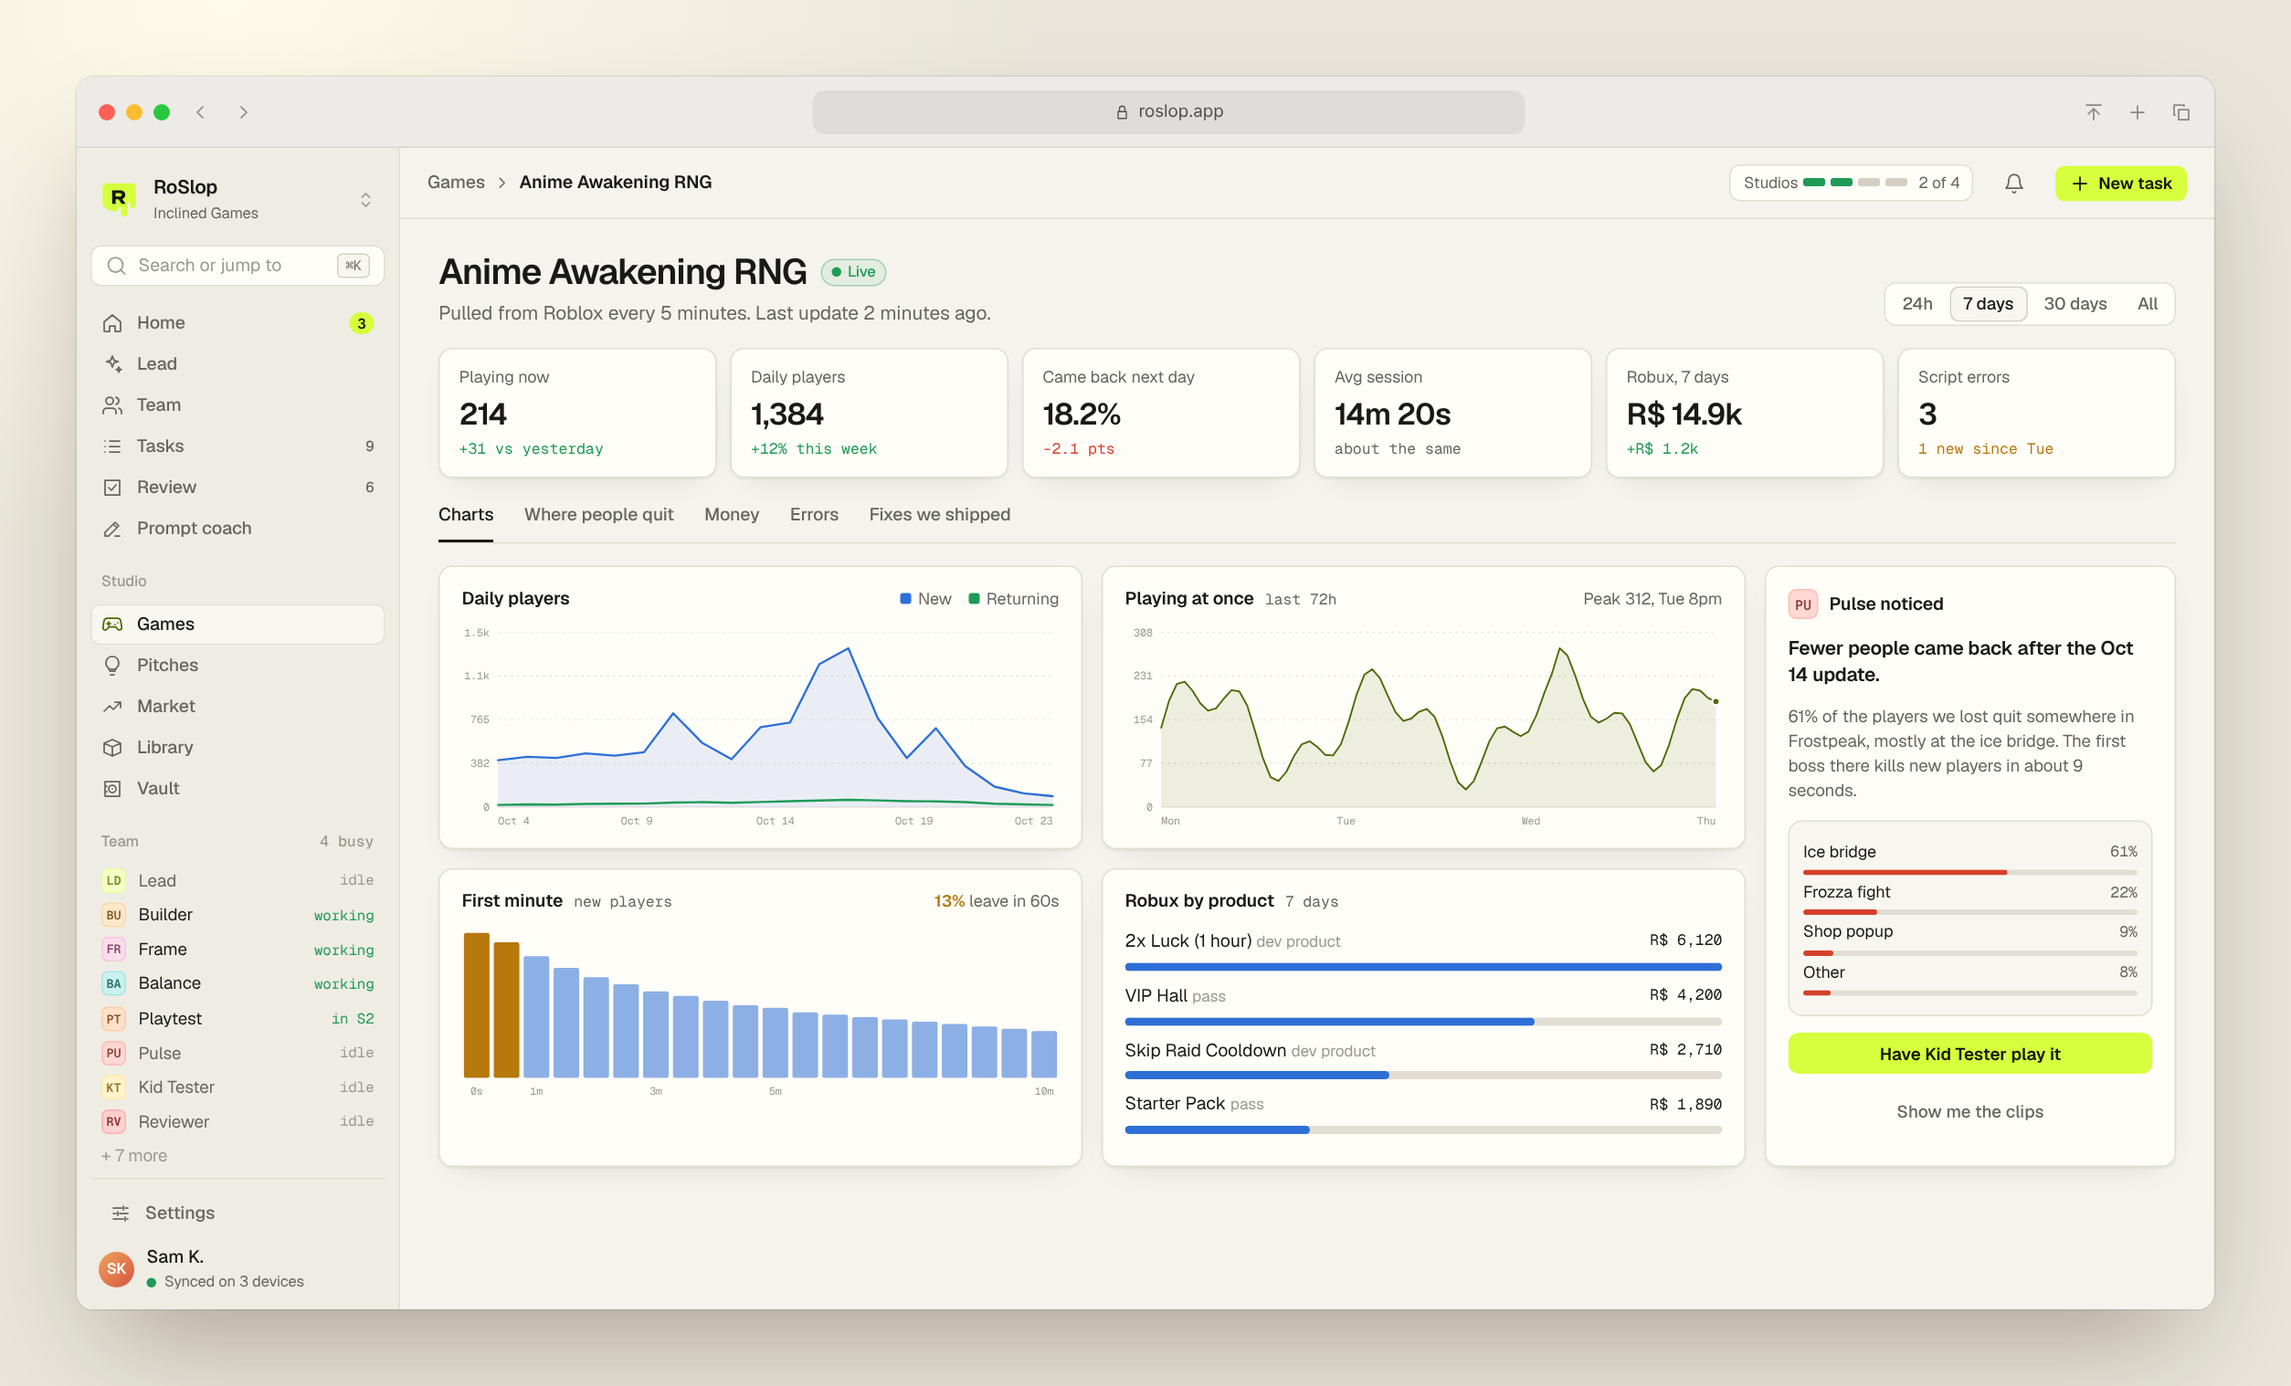
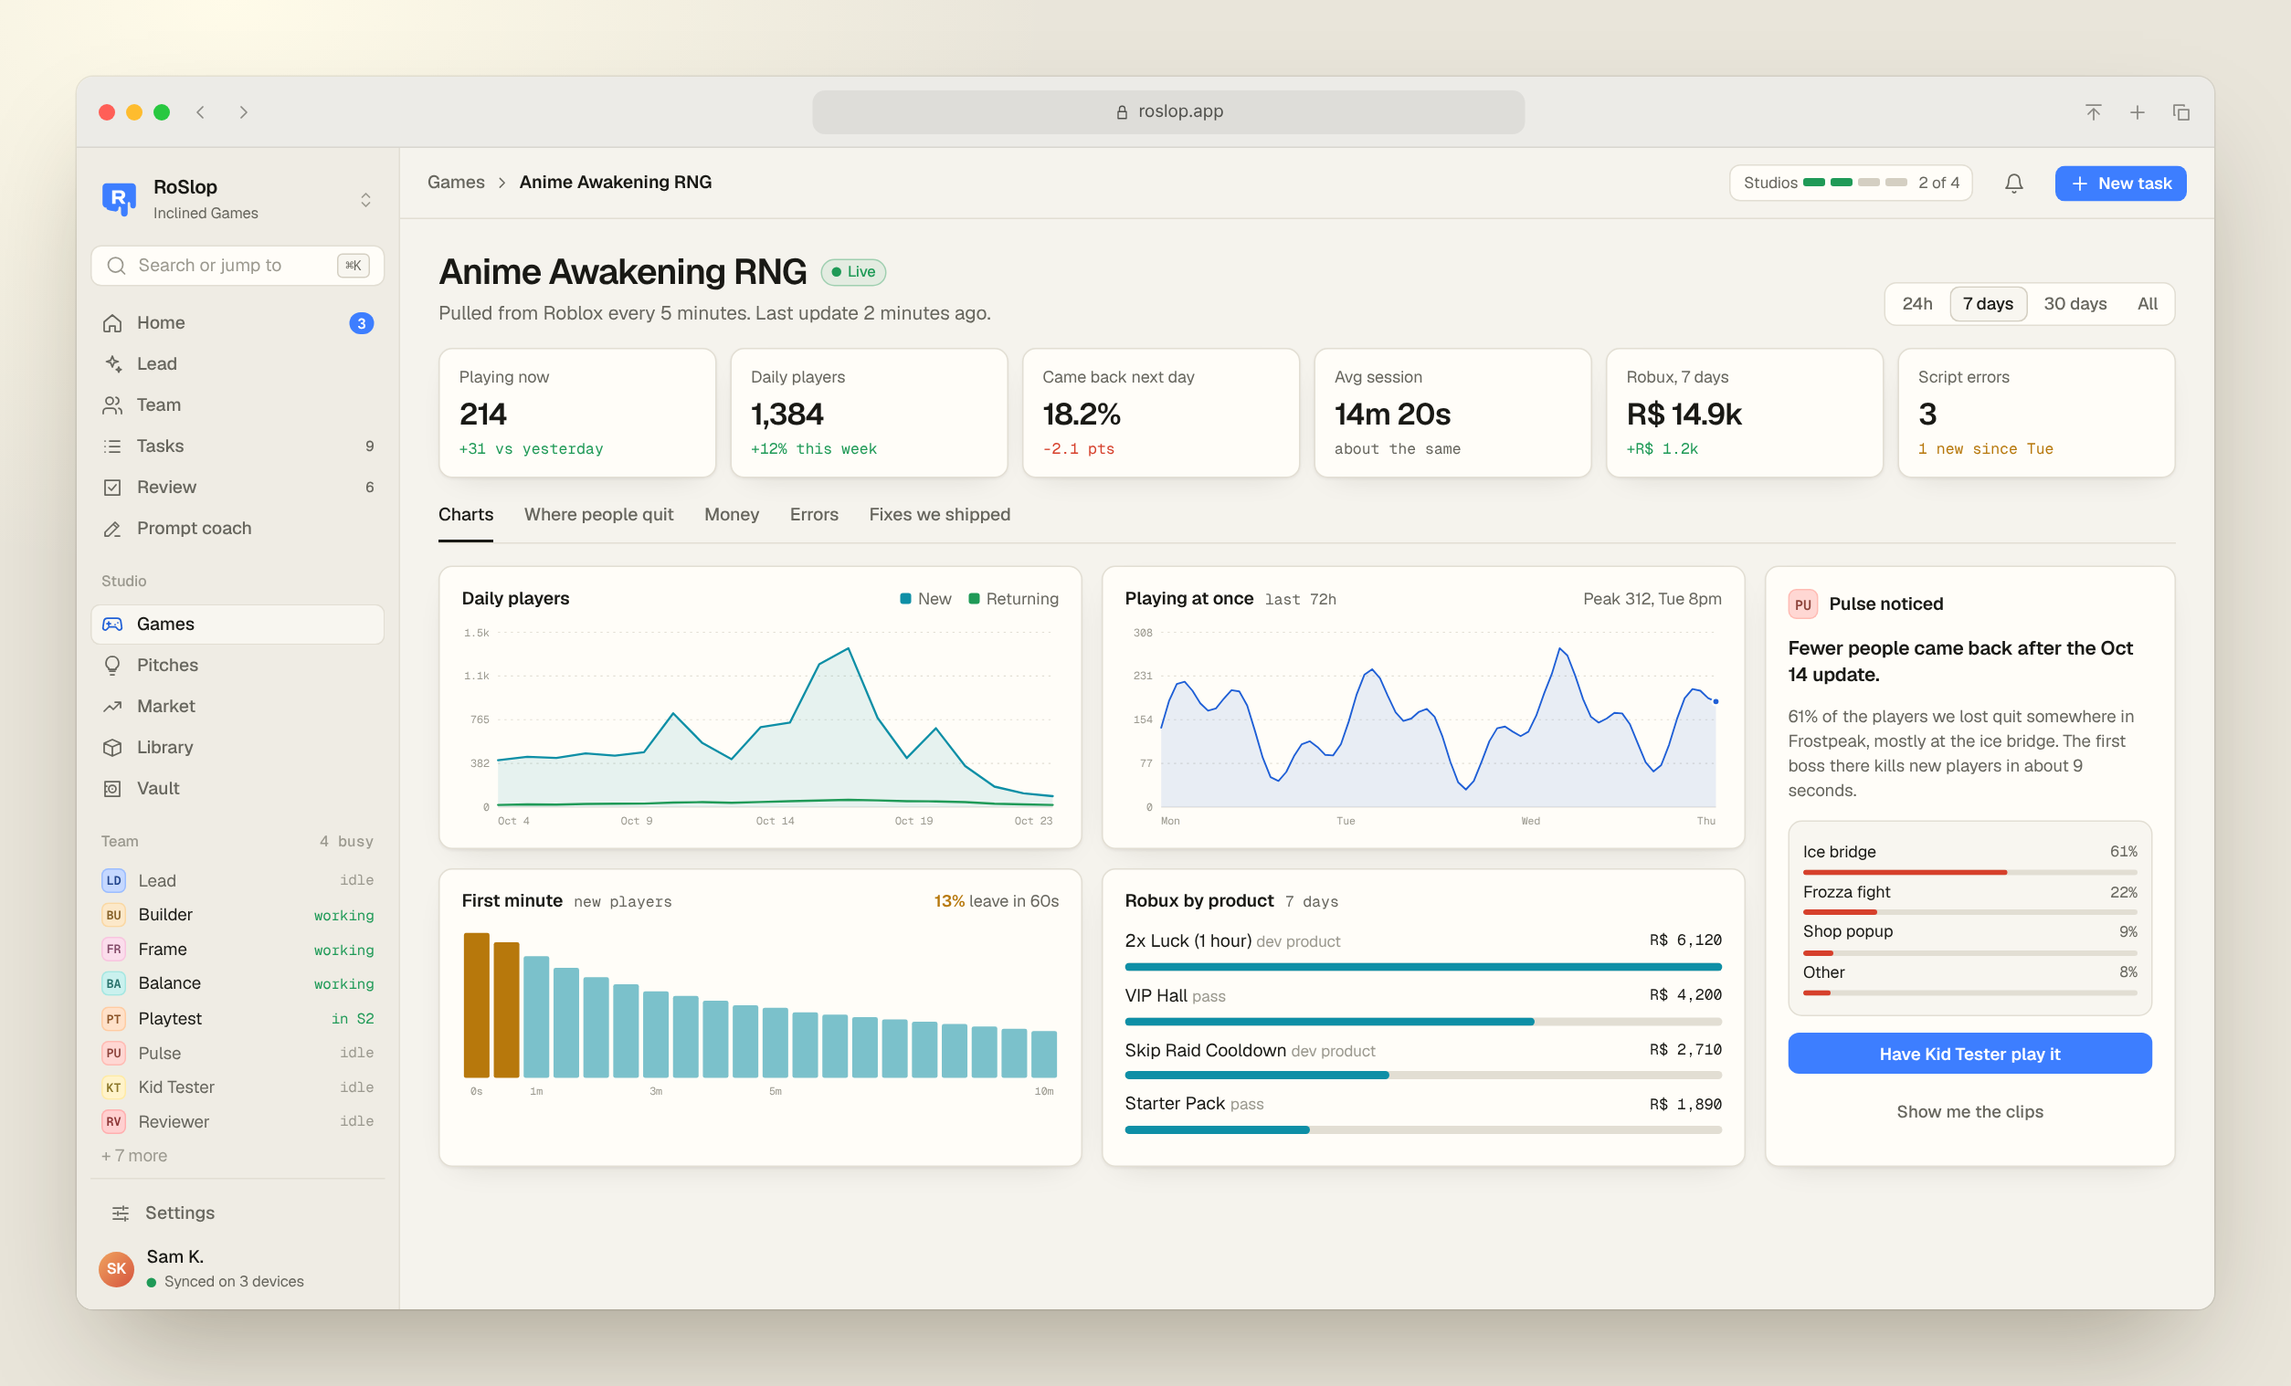
Blue accent, in-app Supabase connect, installer builds
Swaps the yellow-green accent for blue across the app and mockups, adds
an app icon, lets an installed copy connect to a Supabase project from
the sign-in screen, and builds Windows and Mac installers on GitHub
Actions for every v* tag.

Claude-Session: https://claude.ai/code/session_01Rj7wvfXsp5qGivo9iQqRRG

diff --git a/apps/web/src/pages/Login.tsx b/apps/web/src/pages/Login.tsx
@@ -1,5 +1,5 @@
 import { useState } from "react";
-import { db } from "../data/store";
+import { connectCloud, db } from "../data/store";
 import { Logo } from "../ui/bits";
 
 export function Login() {
@@ -8,6 +8,8 @@ export function Login() {
   const [mode, setMode] = useState<"in" | "up">("in");
   const [error, setError] = useState<string | null>(null);
   const [busy, setBusy] = useState(false);
+  const [url, setUrl] = useState("");
+  const [key, setKey] = useState("");
   const demo = db.mode === "demo";
 
   const go = async () => {
@@ -25,9 +27,13 @@ export function Login() {
         <div className="row"><Logo size={34} /><div><b style={{ fontSize: 16 }}>RoSlop</b><div className="muted small">A crew of agents that builds your Roblox games</div></div></div>
         {demo ? (
           <>
-            <p className="muted">This copy isn't connected to a database, so it runs as a demo with sample data that stays in your browser.</p>
-            <button className="btn lg pri" onClick={() => db.signIn("", "")}>Try the demo</button>
-            <p className="dim small">To sync across devices, add your Supabase URL and key to <span className="mono">apps/web/.env</span>. The README walks through it.</p>
+            <p className="muted">To sync across your devices and run the crew, connect your Supabase project. It's free, and the README shows how to set it up in a few minutes.</p>
+            <input className="input" placeholder="Project URL, like https://abcd.supabase.co" value={url} onChange={e => setUrl(e.target.value)} />
+            <input className="input mono" placeholder="Anon public key" value={key} onChange={e => setKey(e.target.value)} />
+            <button className="btn lg pri" disabled={!/^https:\/\//.test(url) || key.length < 20} onClick={() => connectCloud(url, key)}>Connect</button>
+            <div className="row dim small"><hr className="grow" style={{ border: 0, borderTop: "1px solid var(--line)" }} />or<hr className="grow" style={{ border: 0, borderTop: "1px solid var(--line)" }} /></div>
+            <button className="btn lg" onClick={() => db.signIn("", "")}>Just try the demo</button>
+            <p className="dim small">The demo uses sample data that stays on this device. Nothing actually runs.</p>
           </>
         ) : (
           <>
@@ -39,6 +45,7 @@ export function Login() {
             {error && <div className="small warn">{error}</div>}
             <button className="btn lg pri" disabled={busy || !email || password.length < 6} onClick={go}>{mode === "in" ? "Sign in" : "Make an account"}</button>
             <button className="btn ghost small" onClick={() => setMode(mode === "in" ? "up" : "in")}>{mode === "in" ? "New here? Make an account" : "Have an account? Sign in"}</button>
+            {localStorage.getItem("roslop-cloud") && <button className="btn ghost small" onClick={() => connectCloud("", null)}>Use a different project</button>}
           </>
         )}
       </div>

diff --git a/design/mockups/ui.js b/design/mockups/ui.js
@@ -50,7 +50,7 @@ const ic = (n, s = "") => `<svg class="i" viewBox="0 0 24 24" style="${s}"><path
 const play = `<svg viewBox="0 0 24 24" width="14" height="14" fill="currentColor"><path d="M8 5l11 7-11 7z"/></svg>`;
 
 const AG = {
-  lead: ["Lead", "LD", "#d6ff3d"],
+  lead: ["Lead", "LD", "#3d7eff"],
   pulse: ["Pulse", "PU", "#ff7a6b"],
   architect: ["Architect", "AR", "#79b8ff"],
   builder: ["Builder", "BU", "#f4b24c"],
@@ -69,8 +69,8 @@ const AG = {
 const av = (k, cls = "") => `<span class="av ${cls}" style="--c:${AG[k][2]}">${AG[k][1]}</span>`;
 
 const logo = (s = 30) => `<svg class="logo" width="${s}" height="${s}" viewBox="0 0 32 32">
-  <path d="M6 3h20a3 3 0 0 1 3 3v14c0 2-1.4 2.6-2.4 2.6-1.3 0-2-.9-2-2.3v-1.6c0-.7-.5-1.1-1-1.1s-1 .4-1 1.1v7.6c0 1.6-1.1 2.7-2.6 2.7s-2.6-1.1-2.6-2.7v-4.1c0-.7-.5-1.1-1-1.1s-1 .4-1 1.1v.6c0 1.3-.9 2.2-2.1 2.2S6.2 24.1 6.2 23V22H6a3 3 0 0 1-3-3V6a3 3 0 0 1 3-3z" fill="#d6ff3d"/>
-  <path d="M10.5 8.5h6.2c2.4 0 4 1.4 4 3.5 0 1.6-.9 2.7-2.4 3.2l2.7 3.8h-3.1l-2.4-3.5h-2.3v3.5h-2.7z m2.7 2.2v2.6h3.3c.9 0 1.5-.5 1.5-1.3s-.6-1.3-1.5-1.3z" fill="#12140a"/>
+  <path d="M6 3h20a3 3 0 0 1 3 3v14c0 2-1.4 2.6-2.4 2.6-1.3 0-2-.9-2-2.3v-1.6c0-.7-.5-1.1-1-1.1s-1 .4-1 1.1v7.6c0 1.6-1.1 2.7-2.6 2.7s-2.6-1.1-2.6-2.7v-4.1c0-.7-.5-1.1-1-1.1s-1 .4-1 1.1v.6c0 1.3-.9 2.2-2.1 2.2S6.2 24.1 6.2 23V22H6a3 3 0 0 1-3-3V6a3 3 0 0 1 3-3z" fill="#3d7eff"/>
+  <path d="M10.5 8.5h6.2c2.4 0 4 1.4 4 3.5 0 1.6-.9 2.7-2.4 3.2l2.7 3.8h-3.1l-2.4-3.5h-2.3v3.5h-2.7z m2.7 2.2v2.6h3.3c.9 0 1.5-.5 1.5-1.3s-.6-1.3-1.5-1.3z" fill="#ffffff"/>
 </svg>`;
 
 // tiny seeded rng so the fake game frames look the same every render
@@ -251,7 +251,7 @@ function home() {
   </div>
 
   <div class="card" style="padding:12px 12px 10px 16px;margin-bottom:24px;border-color:var(--line-2)">
-    <div class="row" style="gap:12px"><span class="av lg" style="--c:#d6ff3d">${ic("lead", "width:15px;height:15px")}</span>
+    <div class="row" style="gap:12px"><span class="av lg" style="--c:#3d7eff">${ic("lead", "width:15px;height:15px")}</span>
       <div class="grow" style="font-size:14px;color:var(--dim)">Tell the Lead what you want. "Make the first 5 minutes of Dino less boring" works fine.</div></div>
     <div class="row" style="margin-top:10px;padding-left:42px">
       <span class="pill">${ic("games", "width:12px;height:12px")}Anime Awakening RNG ${ic("down", "width:12px;height:12px")}</span>

diff --git a/design/mockups/more.js b/design/mockups/more.js
@@ -189,7 +189,7 @@ function pipeline() {
     <div class="seg"><a class="on">Board</a><a>List</a></div></div>
   <div style="display:grid;grid-template-columns:repeat(9,1fr);gap:10px;align-items:start">
     ${cols.map(([name, who, cards]) => `<div style="min-width:0">
-      <div class="row" style="gap:6px;margin-bottom:8px;padding:0 2px">${who ? av(who, "sm") : `<span class="av sm" style="--c:#d6ff3d">${ic("user", "width:11px;height:11px")}</span>`}<b style="font-size:12px;font-weight:600" class="trunc">${name}</b><span class="mono dim" style="margin-left:auto">${cards.length}</span></div>
+      <div class="row" style="gap:6px;margin-bottom:8px;padding:0 2px">${who ? av(who, "sm") : `<span class="av sm" style="--c:#3d7eff">${ic("user", "width:11px;height:11px")}</span>`}<b style="font-size:12px;font-weight:600" class="trunc">${name}</b><span class="mono dim" style="margin-left:auto">${cards.length}</span></div>
       <div style="display:flex;flex-direction:column;gap:8px;min-height:420px;padding:6px;border-radius:10px;background:color-mix(in srgb,var(--panel) 50%,transparent);border:1px dashed var(--line)">
         ${cards.map(card).join("")}
         ${name === "Live" ? `<div class="dim" style="font-size:11px;text-align:center;padding:6px">Only you can move things here</div>` : ""}

diff --git a/apps/web/src/data/store.tsx b/apps/web/src/data/store.tsx
@@ -4,9 +4,26 @@ import type { Change, Db, Snapshot, User } from "./db";
 import { demoDb } from "./demo";
 import { cloudDb } from "./supabase";
 
-const url = import.meta.env.VITE_SUPABASE_URL as string | undefined;
-const key = import.meta.env.VITE_SUPABASE_ANON_KEY as string | undefined;
-export const db: Db = url && key ? cloudDb(url, key) : demoDb();
+// Built-in config wins. Otherwise people paste their own project in on first run.
+function cloudConfig(): { url: string; key: string } | null {
+  const url = import.meta.env.VITE_SUPABASE_URL as string | undefined;
+  const key = import.meta.env.VITE_SUPABASE_ANON_KEY as string | undefined;
+  if (url && key) return { url, key };
+  try {
+    return JSON.parse(localStorage.getItem("roslop-cloud") ?? "null");
+  } catch {
+    return null;
+  }
+}
+
+export function connectCloud(url: string, key: string | null) {
+  if (key) localStorage.setItem("roslop-cloud", JSON.stringify({ url: url.trim().replace(/\/$/, ""), key: key.trim() }));
+  else localStorage.removeItem("roslop-cloud");
+  location.reload();
+}
+
+const cloud = cloudConfig();
+export const db: Db = cloud ? cloudDb(cloud.url, cloud.key) : demoDb();
 
 interface Ctx {
   user: User | null | undefined;

diff --git a/design/mockups/base.css b/design/mockups/base.css
@@ -12,13 +12,13 @@
   --text: #ecebe4;
   --muted: #9a998f;
   --dim: #64635c;
-  --accent: #d6ff3d;
-  --accent-ink: #12140a;
-  --accent-text: #d6ff3d;
+  --accent: #3d7eff;
+  --accent-ink: #ffffff;
+  --accent-text: #6fa3ff;
   --ok: #62d394;
   --warn: #f3b74f;
   --bad: #ff6a55;
-  --info: #7fb6ff;
+  --info: #5fd4e8;
   --shadow: 0 1px 0 rgba(255,255,255,.03) inset, 0 12px 32px -12px rgba(0,0,0,.6);
   --r: 10px;
   --sans: "Geist", ui-sans-serif, system-ui, sans-serif;
@@ -36,13 +36,13 @@
   --text: #191915;
   --muted: #67665e;
   --dim: #9b998f;
-  --accent: #d6ff3d;
-  --accent-ink: #12140a;
-  --accent-text: #4b6a00;
+  --accent: #3d7eff;
+  --accent-ink: #ffffff;
+  --accent-text: #1f5fd6;
   --ok: #1f9a57;
   --warn: #b7780c;
   --bad: #d6402b;
-  --info: #2d6fd6;
+  --info: #0e8fa6;
   --shadow: 0 1px 2px rgba(30,25,10,.05), 0 8px 24px -14px rgba(30,25,10,.18);
 }
 

diff --git a/packages/core/src/agents.ts b/packages/core/src/agents.ts
@@ -11,7 +11,7 @@ export interface Agent {
 }
 
 export const AGENTS: Agent[] = [
-  { id: "lead", name: "Lead", short: "LD", color: "#d6ff3d", tier: "heavy", job: "Turns what you want into tasks for the right people.", studio: false },
+  { id: "lead", name: "Lead", short: "LD", color: "#3d7eff", tier: "heavy", job: "Turns what you want into tasks for the right people.", studio: false },
   { id: "pulse", name: "Pulse", short: "PU", color: "#ff7a6b", tier: "light", job: "Watches the charts and pitches games that are growing.", studio: false },
   { id: "architect", name: "Architect", short: "AR", color: "#79b8ff", tier: "heavy", job: "Writes the game plan before anything gets built.", studio: false },
   { id: "builder", name: "Builder", short: "BU", color: "#f4b24c", tier: "standard", job: "Writes the code and wires the game together.", studio: true },

diff --git a/apps/web/src/styles.css b/apps/web/src/styles.css
@@ -12,13 +12,13 @@
   --text: #ecebe4;
   --muted: #9a998f;
   --dim: #64635c;
-  --accent: #d6ff3d;
-  --accent-ink: #12140a;
-  --accent-text: #d6ff3d;
+  --accent: #3d7eff;
+  --accent-ink: #ffffff;
+  --accent-text: #6fa3ff;
   --ok: #62d394;
   --warn: #f3b74f;
   --bad: #ff6a55;
-  --info: #7fb6ff;
+  --info: #5fd4e8;
   --shadow: 0 1px 0 rgba(255, 255, 255, .03) inset, 0 12px 32px -12px rgba(0, 0, 0, .6);
   --r: 10px;
   --sans: "Geist", ui-sans-serif, system-ui, sans-serif;
@@ -37,11 +37,11 @@
   --text: #191915;
   --muted: #67665e;
   --dim: #9b998f;
-  --accent-text: #4b6a00;
+  --accent-text: #1f5fd6;
   --ok: #1f9a57;
   --warn: #b7780c;
   --bad: #d6402b;
-  --info: #2d6fd6;
+  --info: #0e8fa6;
   --shadow: 0 1px 2px rgba(30, 25, 10, .05), 0 8px 24px -14px rgba(30, 25, 10, .18);
   color-scheme: light;
 }

diff --git a/apps/web/src/pages/Home.tsx b/apps/web/src/pages/Home.tsx
@@ -67,7 +67,7 @@ export function Home() {
 
       <div className="card pad" style={{ marginBottom: 24, borderColor: "var(--line-2)" }}>
         <div className="row" style={{ alignItems: "flex-start", gap: 12 }}>
-          <span className="av lg" style={{ "--c": "#d6ff3d" } as React.CSSProperties}><Icon name="lead" size={15} /></span>
+          <span className="av lg" style={{ "--c": "#3d7eff" } as React.CSSProperties}><Icon name="lead" size={15} /></span>
           <textarea
             className="grow"
             rows={2}

diff --git a/README.md b/README.md
@@ -46,44 +46,44 @@ The details are in [docs/usage-pacing.md](docs/usage-pacing.md).
 
 Only the desktop app runs agents. Everything else is a remote that reads and writes the same data, so whatever you do on one device shows up on the others straight away.
 
-## Try it
+## Install
+
+Grab the installer for your computer from the [latest release](https://github.com/21kingbigz/RoSlop/releases/latest):
+
+- **Windows**: `RoSlop-…-win-x64.exe`
+- **Mac with an Apple chip**: `RoSlop-…-mac-arm64.dmg`
+- **Older Intel Mac**: `RoSlop-…-mac-x64.dmg`
+
+The app isn't signed yet, so the first launch needs one extra click. On Windows, click "More info" then "Run anyway". On a Mac, right-click the app and choose Open.
+
+When it opens you can try the demo straight away, or connect your own Supabase project to sync across devices and run the crew for real.
+
+## Set it up for real
+
+**1. A free Supabase project.** This is where your account and data live, so your phone, browser and PC all see the same thing.
+
+- Make a project at supabase.com.
+- Open the SQL editor and run the files in `supabase/migrations`, in order.
+- Optional: turn on GitHub or Google under Authentication, Providers.
+- In the app, paste the project URL and anon key (Project Settings, API) and hit Connect.
+
+**2. Claude Code or Codex** on the computer that does the work. Install one and sign in once. RoSlop uses your plan, nothing goes through anyone else.
+
+**3. Sign in on that computer.** It becomes your worker. Add your games under Games, point Settings at the Roblox Studio MCP server so agents can drive Studio, and scan for apps like Blender.
+
+**4. Your phone** (optional). Host `apps/web` anywhere static, like Vercel or Netlify, and sign in from your phone. It works as a remote for your PC.
+
+## Working on RoSlop itself
 
 You need Node 20 or newer.
 
 ```
 npm install
-npm run dev
+npm run dev            # the web app with demo data, at localhost:5173
+npm run dev:desktop    # the desktop app, in a second terminal
 ```
 
-Open http://localhost:5173 and hit "Try the demo". With no database set up it runs on sample data kept in your browser.
-
-## Set it up for real
-
-**1. A Supabase project** (free tier is fine)
-
-- Make a project at supabase.com.
-- Run the files in `supabase/migrations` in order, in the SQL editor or with `supabase db push`.
-- Optional: turn on GitHub or Google under Authentication → Providers for one-click sign in.
-- Copy `apps/web/.env.example` to `apps/web/.env` and fill in the project URL and anon key.
-
-**2. Claude Code or Codex** on the computer that'll do the work
-
-Install one and sign in once (`claude` or `codex login`). RoSlop uses your plan, nothing goes through anyone else.
-
-**3. The desktop app**
-
-```
-npm run build                         # web + desktop
-npm run dist -w @roslop/desktop       # makes the installer in apps/desktop/release
-```
-
-While working on it, run `npm run dev` in one terminal and `npm run dev:desktop` in another.
-
-Open it, sign in, and that computer becomes your worker. Add your games under Games, point Settings at the Roblox Studio MCP server if you want agents driving Studio, and scan for apps like Blender.
-
-**4. The website** (optional)
-
-`apps/web/dist` is a static site. Put it on Vercel, Netlify or Cloudflare Pages with the same two env vars, then sign in from your phone.
+Installers are built by GitHub Actions on real Windows and Mac machines whenever a `v*` tag is pushed. See `.github/workflows/release.yml`.
 
 ## A word on safety
 
